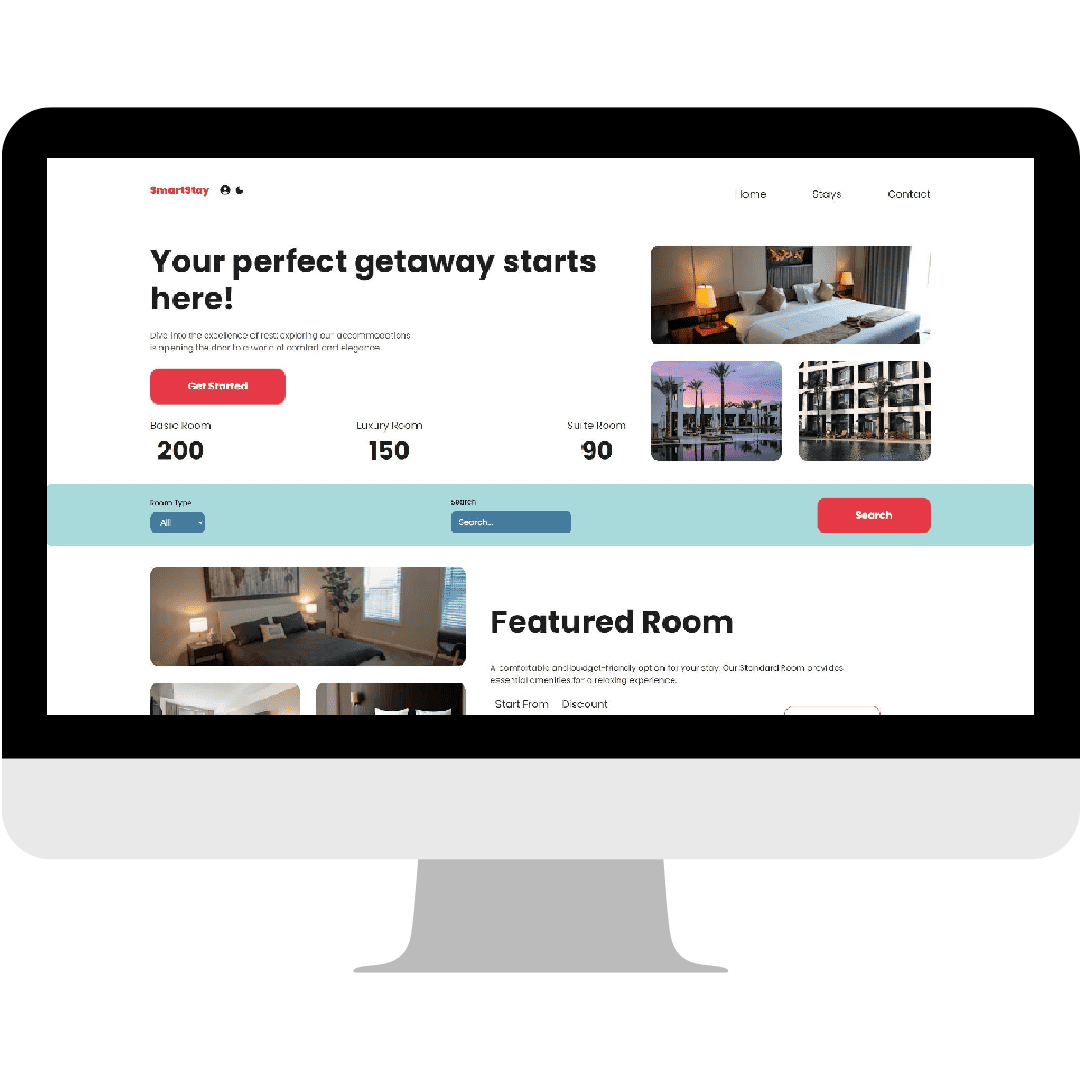
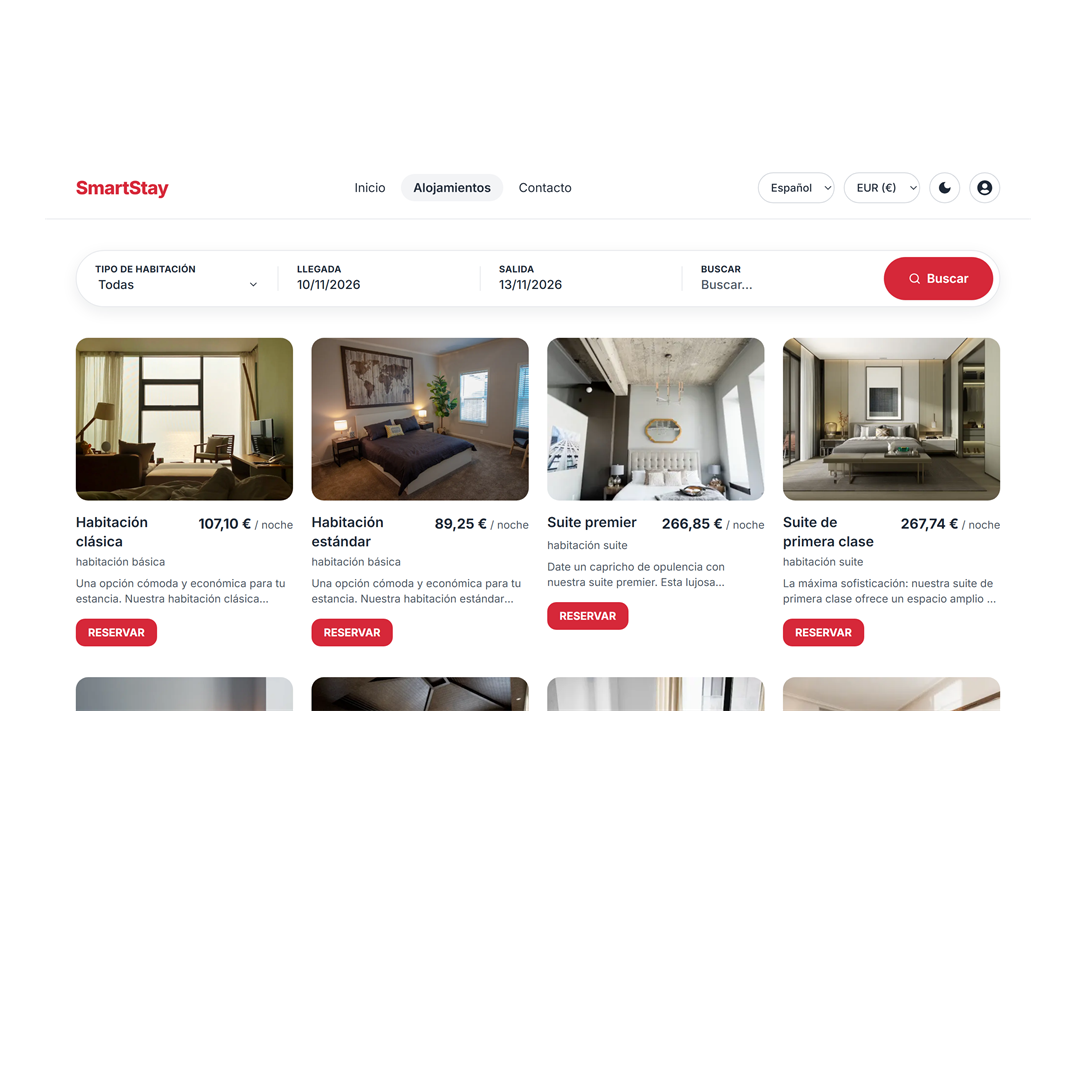
feat: update the SmartStay project with new screenshots, stack and description

diff --git a/mi-portfolio/src/infrastructure/repositories/projectRepository.ts b/mi-portfolio/src/infrastructure/repositories/projectRepository.ts
@@ -88,19 +88,26 @@ const sources: ProjectSource[] = [
     desktopImage: SmartStayDesktop,
     mobileImage: SmartStayMobile,
     url: "smartstay.vercel.app",
-    tech: ["Next.js", "Sanity", "Tailwind CSS", "Stripe"],
+    tech: [
+      "Next.js",
+      "React",
+      "TypeScript",
+      "Sanity",
+      "Stripe",
+      "Tailwind CSS",
+    ],
     repoLink: "https://github.com/srdgz/smartstay",
     demoLink: "https://smartstay.vercel.app/",
     text: {
       es: {
         label: "Web",
         description:
-          "Reserva de alojamientos con pago mediante Stripe, reviews y panel de usuario para gestionar las reservas.",
+          "Reserva de alojamientos bilingüe (ES/EN) con precios en USD/EUR, búsqueda por fechas disponibles, pago con Stripe, foto de perfil y reseñas, con arquitectura limpia, tests y CI.",
       },
       en: {
         label: "Web",
         description:
-          "Accommodation booking with Stripe payments, reviews and a user dashboard to manage bookings.",
+          "Bilingual (ES/EN) accommodation booking with USD/EUR pricing, availability search by dates, Stripe payments, profile photos and reviews, built with clean architecture, tests and CI.",
       },
     },
   },
